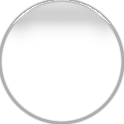
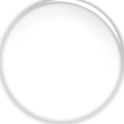
Refine shape-specific glass highlights

Changed region(s): [[0.0, 0.0, 1.0, 1.0]]

diff --git a/demo/showcase.css b/demo/showcase.css
@@ -426,6 +426,28 @@ h3 {
 
 .showcase-pill-button {
   --reflect-glass-filter: url("#reflectGlass");
+  --reflect-glass-highlight-height: 18px;
+  --reflect-glass-highlight-margin: 16px;
+  --reflect-glass-highlight-opacity: 0.46;
+  --reflect-glass-highlight-background:
+    radial-gradient(
+      132% 190% at 50% -6%,
+      rgba(255, 255, 255, 0.98) 0%,
+      rgba(255, 255, 255, 0.74) 18%,
+      rgba(255, 255, 255, 0.16) 54%,
+      transparent 82%
+    );
+  --reflect-glass-chromium-highlight-height: 14px;
+  --reflect-glass-chromium-highlight-margin: 18px;
+  --reflect-glass-chromium-highlight-opacity: 0.5;
+  --reflect-glass-chromium-highlight-background:
+    radial-gradient(
+      132% 196% at 50% -8%,
+      rgba(255, 255, 255, 1) 0%,
+      rgba(255, 255, 255, 0.84) 18%,
+      rgba(255, 255, 255, 0.18) 54%,
+      transparent 82%
+    );
 }
 
 .showcase-circle-button {
@@ -447,9 +469,46 @@ h3 {
   --reflect-glass-label-letter-spacing: 0.02em;
   --reflect-glass-label-max-width: 4.6em;
   --reflect-glass-filter: url("#reflectGlassCircle");
-  --reflect-glass-chromium-highlight-top: 12px;
-  --reflect-glass-chromium-highlight-height: 16px;
-  --reflect-glass-chromium-highlight-margin: 24px;
+  --reflect-glass-highlight-top: 9px;
+  --reflect-glass-highlight-height: 42px;
+  --reflect-glass-highlight-margin: 16px;
+  --reflect-glass-highlight-opacity: 0.72;
+  --reflect-glass-highlight-background:
+    radial-gradient(
+      86% 112% at 50% 4%,
+      rgba(255, 255, 255, 0.98) 0%,
+      rgba(255, 255, 255, 0.64) 28%,
+      rgba(255, 255, 255, 0.18) 52%,
+      transparent 76%
+    ),
+    radial-gradient(
+      28% 28% at 32% 22%,
+      rgba(255, 255, 255, 0.9) 0%,
+      rgba(255, 255, 255, 0.18) 68%,
+      transparent 100%
+    );
+  --reflect-glass-highlight-mask:
+    radial-gradient(88% 104% at 50% 6%, black 0%, black 58%, transparent 88%);
+  --reflect-glass-chromium-highlight-top: 8px;
+  --reflect-glass-chromium-highlight-height: 46px;
+  --reflect-glass-chromium-highlight-margin: 14px;
+  --reflect-glass-chromium-highlight-opacity: 0.78;
+  --reflect-glass-chromium-highlight-background:
+    radial-gradient(
+      88% 116% at 50% 2%,
+      rgba(255, 255, 255, 1) 0%,
+      rgba(255, 255, 255, 0.72) 28%,
+      rgba(255, 255, 255, 0.2) 52%,
+      transparent 76%
+    ),
+    radial-gradient(
+      30% 30% at 34% 22%,
+      rgba(255, 255, 255, 0.94) 0%,
+      rgba(255, 255, 255, 0.2) 68%,
+      transparent 100%
+    );
+  --reflect-glass-chromium-highlight-mask:
+    radial-gradient(90% 108% at 50% 6%, black 0%, black 58%, transparent 88%);
   --reflect-glass-chromium-glow-side: 24px;
   --reflect-glass-chromium-glow-bottom: 15px;
   --reflect-glass-chromium-glow-height: 13px;
@@ -474,9 +533,48 @@ h3 {
   --reflect-glass-label-letter-spacing: 0.02em;
   --reflect-glass-label-max-width: 5.2em;
   --reflect-glass-filter: url("#reflectGlassRoundedSquare");
-  --reflect-glass-chromium-highlight-top: 11px;
-  --reflect-glass-chromium-highlight-height: 18px;
-  --reflect-glass-chromium-highlight-margin: 22px;
+  --reflect-glass-highlight-top: 9px;
+  --reflect-glass-highlight-height: 30px;
+  --reflect-glass-highlight-margin: 16px;
+  --reflect-glass-highlight-radius: 22px;
+  --reflect-glass-highlight-opacity: 0.62;
+  --reflect-glass-highlight-background:
+    radial-gradient(
+      126% 152% at 50% -4%,
+      rgba(255, 255, 255, 0.98) 0%,
+      rgba(255, 255, 255, 0.7) 18%,
+      rgba(255, 255, 255, 0.18) 50%,
+      transparent 78%
+    ),
+    linear-gradient(
+      180deg,
+      rgba(255, 255, 255, 0.36) 0%,
+      rgba(255, 255, 255, 0.06) 60%,
+      transparent 100%
+    );
+  --reflect-glass-highlight-mask:
+    radial-gradient(116% 120% at 50% 2%, black 0%, black 64%, transparent 92%);
+  --reflect-glass-chromium-highlight-top: 8px;
+  --reflect-glass-chromium-highlight-height: 32px;
+  --reflect-glass-chromium-highlight-margin: 14px;
+  --reflect-glass-chromium-highlight-radius: 22px;
+  --reflect-glass-chromium-highlight-opacity: 0.68;
+  --reflect-glass-chromium-highlight-background:
+    radial-gradient(
+      128% 156% at 50% -4%,
+      rgba(255, 255, 255, 1) 0%,
+      rgba(255, 255, 255, 0.78) 18%,
+      rgba(255, 255, 255, 0.2) 50%,
+      transparent 78%
+    ),
+    linear-gradient(
+      180deg,
+      rgba(255, 255, 255, 0.42) 0%,
+      rgba(255, 255, 255, 0.08) 60%,
+      transparent 100%
+    );
+  --reflect-glass-chromium-highlight-mask:
+    radial-gradient(118% 122% at 50% 2%, black 0%, black 64%, transparent 92%);
   --reflect-glass-chromium-glow-side: 21px;
   --reflect-glass-chromium-glow-bottom: 13px;
   --reflect-glass-chromium-glow-height: 12px;

diff --git a/src/reflect-glass-button.css b/src/reflect-glass-button.css
@@ -15,6 +15,18 @@
   --reflect-glass-highlight-top: 6px;
   --reflect-glass-highlight-height: 16px;
   --reflect-glass-highlight-margin: 12px;
+  --reflect-glass-highlight-radius: 999px;
+  --reflect-glass-highlight-opacity: 0.54;
+  --reflect-glass-highlight-background:
+    radial-gradient(
+      140% 170% at 50% 0%,
+      rgba(255, 255, 255, 0.96) 0%,
+      rgba(255, 255, 255, 0.72) 18%,
+      rgba(255, 255, 255, 0.18) 56%,
+      transparent 84%
+    );
+  --reflect-glass-highlight-mask:
+    linear-gradient(180deg, black 0%, black 68%, transparent 100%);
   --reflect-glass-glow-side: 16px;
   --reflect-glass-glow-bottom: 10px;
   --reflect-glass-glow-height: 10px;
@@ -26,6 +38,18 @@
   --reflect-glass-chromium-highlight-top: 7px;
   --reflect-glass-chromium-highlight-height: 10px;
   --reflect-glass-chromium-highlight-margin: 16px;
+  --reflect-glass-chromium-highlight-radius: 999px;
+  --reflect-glass-chromium-highlight-opacity: 0.6;
+  --reflect-glass-chromium-highlight-background:
+    radial-gradient(
+      144% 176% at 50% 0%,
+      rgba(255, 255, 255, 1) 0%,
+      rgba(255, 255, 255, 0.82) 18%,
+      rgba(255, 255, 255, 0.24) 56%,
+      transparent 84%
+    );
+  --reflect-glass-chromium-highlight-mask:
+    linear-gradient(180deg, black 0%, black 72%, transparent 100%);
   --reflect-glass-chromium-glow-side: 18px;
   --reflect-glass-chromium-glow-bottom: 8px;
   --reflect-glass-chromium-glow-height: 8px;
@@ -128,9 +152,11 @@
   height: var(--reflect-glass-highlight-height);
   margin: 0 var(--reflect-glass-highlight-margin);
   z-index: 2;
-  border-radius: 999px;
-  background: linear-gradient(180deg, rgba(255, 255, 255, 0.88) 0%, rgba(255, 255, 255, 0.22) 82%, transparent 100%);
-  opacity: 0.7;
+  border-radius: var(--reflect-glass-highlight-radius);
+  background: var(--reflect-glass-highlight-background);
+  opacity: var(--reflect-glass-highlight-opacity);
+  -webkit-mask-image: var(--reflect-glass-highlight-mask);
+  mask-image: var(--reflect-glass-highlight-mask);
 }
 
 .reflect-glass-button::after {
@@ -187,7 +213,11 @@ html[data-browser-engine="chromium"] .reflect-glass-button::before {
   top: var(--reflect-glass-chromium-highlight-top);
   height: var(--reflect-glass-chromium-highlight-height);
   margin: 0 var(--reflect-glass-chromium-highlight-margin);
-  opacity: 0.4;
+  border-radius: var(--reflect-glass-chromium-highlight-radius);
+  background: var(--reflect-glass-chromium-highlight-background);
+  opacity: var(--reflect-glass-chromium-highlight-opacity);
+  -webkit-mask-image: var(--reflect-glass-chromium-highlight-mask);
+  mask-image: var(--reflect-glass-chromium-highlight-mask);
 }
 
 html[data-browser-engine="chromium"] .reflect-glass-button::after {

diff --git a/IMPLEMENTATION.md b/IMPLEMENTATION.md
@@ -119,6 +119,15 @@ Preset pages only override variables such as:
 - `--reflect-glass-filter`
 - highlight/glow tuning values
 
+When the silhouette changes materially, the highlight layer should change too.
+For example, circles and rounded squares should not reuse the same capsule-like
+top sheen. The core CSS exposes per-shape override hooks such as:
+
+- `--reflect-glass-highlight-background`
+- `--reflect-glass-highlight-mask`
+- `--reflect-glass-chromium-highlight-background`
+- `--reflect-glass-chromium-highlight-mask`
+
 ## 4. Drag Behavior
 
 Dragging is implemented with Pointer Events:

diff --git a/README.md b/README.md
@@ -175,6 +175,14 @@ That will create `assets/campus-circle/` with:
 }
 ```
 
+For non-pill shapes, also tune the shape-specific highlight layer instead of
+reusing the default capsule sheen:
+
+- `--reflect-glass-highlight-background`
+- `--reflect-glass-highlight-mask`
+- `--reflect-glass-chromium-highlight-background`
+- `--reflect-glass-chromium-highlight-mask`
+
 8. Load the prepaint script before the stylesheet if you want the first paint
    to match the demo exactly, then load the runtime and call `init()`.
 
